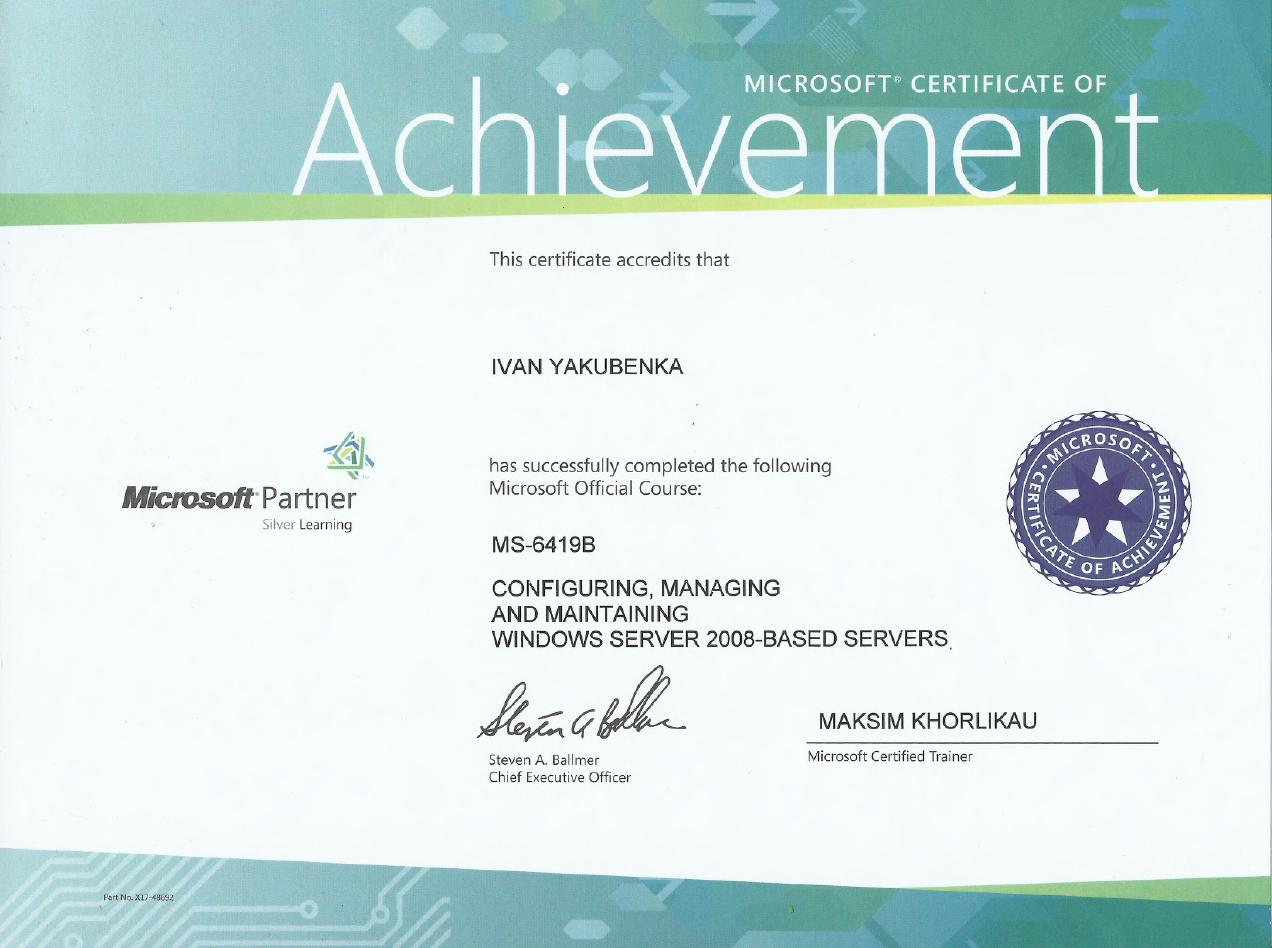
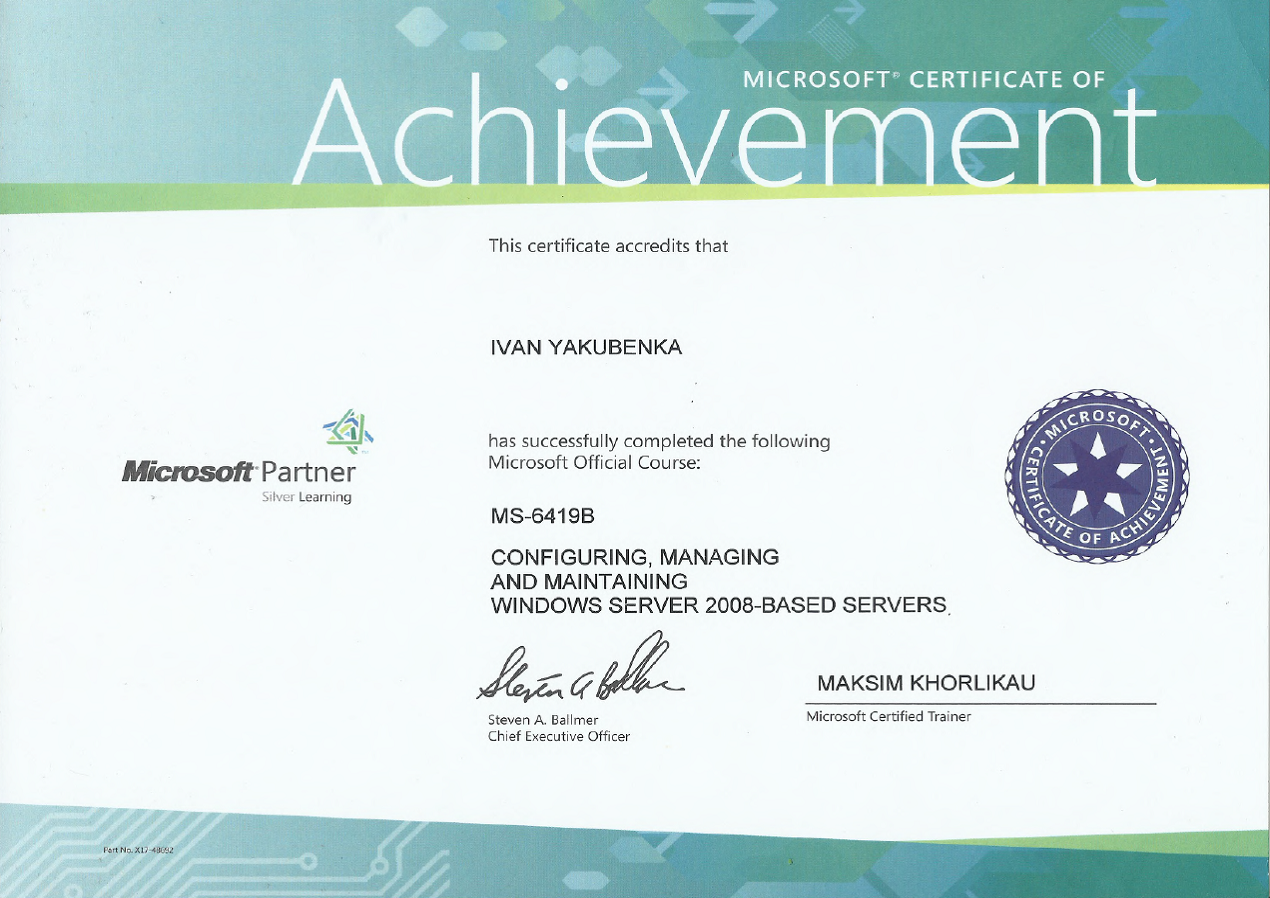
поправила сертификаты, пошаманила с кнопками в проектах

Changed region(s): [[0.4606, 0.6236, 0.4913, 0.6548]]

diff --git a/palasja/src/pages/home/sections/certificates/certificates.tsx b/palasja/src/pages/home/sections/certificates/certificates.tsx
@@ -15,21 +15,21 @@ const Certificates = () => {
       <div className={style.certificates}>
         <h4 className={style.head}>{t('home.cw.certificates')}</h4>
           <div className={style.inner}>
-            <figure >
+            <figure className={style.figura}>
               <img className={style.img} src={rss}></img>
               <figcaption className={style.text}>THE RS SCHOOL - JAVASCRIPT/FRONT-END 2022Q1</figcaption>
             </figure>
-            <figure>
+            <figure className={style.figura}>
               <img className={style.img} src={MS2778}></img>
               <figcaption className={style.text}>
                 MS2778 - Quiring and modifying data in Microsoft SQL Server 2008 with transact-SQL
               </figcaption>
             </figure>
-            <figure>
+            <figure className={style.figura}>
               <img className={style.img} src={softline}></img>
               <figcaption className={style.text}>Softline - Advanced C#/.Net</figcaption>
             </figure>
-            <figure>
+            <figure className={style.figura}>
               <img className={style.img} src={MS6419B}></img>
               <figcaption className={style.text}>
                 MS-6419B - Configuring, managing and Maintaining windows server 2008-based servers

diff --git a/palasja/src/pages/projects/projects.module.css b/palasja/src/pages/projects/projects.module.css
@@ -13,18 +13,35 @@
   display: flex;
   flex-direction: column;
   padding-left: 20px;
- 
 }
 
 .link{
   text-transform: capitalize;
+  width: 265px;
+  background-color: #ffffff;
+   color: #000000;
+  /* border: 1px solid #146BB3; */
+  box-shadow: 0 0 3px 3px rgba(20, 107, 179, 0.3);  
+  border-radius: 8px;
+  padding: 15px 35px;
+  margin: 0 20px 10px 0;
+  text-decoration: none;
+  transform: color 0.2s linear;
 }
+.link:hover{
+	background-color: #146BB3;
+  color: rgb(255, 255, 255);
+  font-weight: 500;
+}
+
 
 .linkBlue{
   width: 285px;
-  background-color: #146BB3;
-  color: rgb(255, 255, 255);
+  background-color: #ffffff;
+  color: #000000;
+  font-weight: 500;
   border-radius: 8px;
+  box-shadow: 0 0 3px 3px rgba(20, 107, 179, 0.3);  
   padding: 15px 35px;
   margin: 0 20px 10px 0;
   text-decoration: none;
@@ -32,7 +49,9 @@
 }
 
 .linkBlue:hover{
-	background-color: #1C2E6A;
+	background-color: #146BB3;
+  color: rgb(255, 255, 255);
+  font-weight: 500;
 }
 
 .linkBlue:last-child{
@@ -41,8 +60,9 @@
 
 .test{
   background-color: #ffffff;
-  border: 1px solid #146BB3;
+  /* border: 1px solid #146BB3; */
   box-shadow: 0 0 5px 5px rgba(20, 107, 179, 0.3);
   border-radius: 8px;
   padding: 30px 35px;
+  max-width: 895px;
 }

diff --git a/palasja/src/components/header/header.module.css b/palasja/src/components/header/header.module.css
@@ -1,6 +1,5 @@
 .header{
 	width: 100%;
-	/* height: 130px; */
 	background-color: #ffffff;
 	top: 0;
     z-index: 999;
@@ -43,16 +42,37 @@
 .language{
 	background-color: #146BB3;
 	color: #ffffff;
+	text-align: center;
 	font-size: 18px;
 	border: none;
 	border-radius: 8px;
 	appearance: none;
 	padding: 9px;
 	cursor: pointer;
+
+	-webkit-user-select: none;
+-moz-user-select: -moz-none;
+-ms-user-select: none;
+ user-select: none;
+
+-webkit-appearance: none;
+-moz-appearance: radio-container;
+ appearance: none;
 }
+
 .linksBlock{
 	position: absolute;
 	display: flex;
 	flex-direction: row;
+
+	 /* display: none; */
+     
+      background-color: rgba(20,107,179,0.2);
+      width: 100%;
+      box-shadow: 0 8px 16px rgba(0,0,0,0.2);
+      padding: 10px;
+      z-index: 1;
+      border-radius: 8px;
+	  text-decoration: none;
 }
 

diff --git a/palasja/src/pages/home/sections/certificates/certificates.module.css b/palasja/src/pages/home/sections/certificates/certificates.module.css
@@ -15,18 +15,36 @@
 .inner{
    display: grid;
    grid-template-columns: repeat(2, 1fr); 
-
+    gap: 20px;
+   
 }
 
-.img{
-    width: 550px;
-    height: 390px;
+.figura{
+    margin: 0;
+    display: flex;
+    flex-direction: column;
+     align-items: center;
+}
+
+.figura:nth-child(odd) {
+  align-items: flex-start;  /* левый столбец */
+}
+
+.figura:nth-child(even) {
+  align-items: flex-end;  /* правый столбец */
+}
+
+.img {
+  width: auto;
+  max-width: 620px;
 }
 
 .text{
     text-align: center;
     text-transform: uppercase;
-     font-family: "Manrope", sans-serif;
-     font-size: 16px;
-     
+    font-family: "Manrope", sans-serif;
+    font-size: 16px;
+    margin: 20px 0 20px 0;
+    width: 100%;
 }
+

diff --git a/palasja/src/components/header/header.tsx b/palasja/src/components/header/header.tsx
@@ -24,9 +24,9 @@ const Header = () => {
             Контакты
               <div className={style.linksBlock}>
                 <ul>
-                  <li><a>Linked: https://www.linkedin.com/in/palasja</a></li>
-                  <li><a>GitHub: https://github.com/palasja</a></li>
                   <li><a>Email: palasja@gmail.com</a></li>
+                  <li><a>GitHub: https://github.com/palasja</a></li>
+                  <li><a>Linked: https://www.linkedin.com/in/palasja</a></li>                 
                 </ul>
               </div>
             </div>
